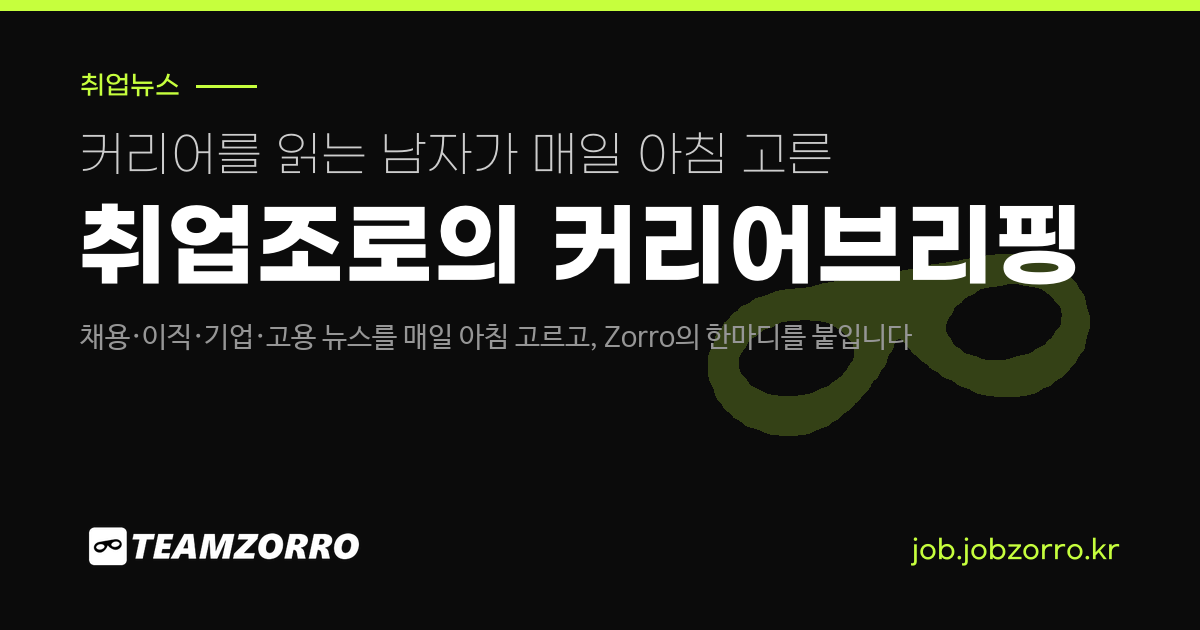
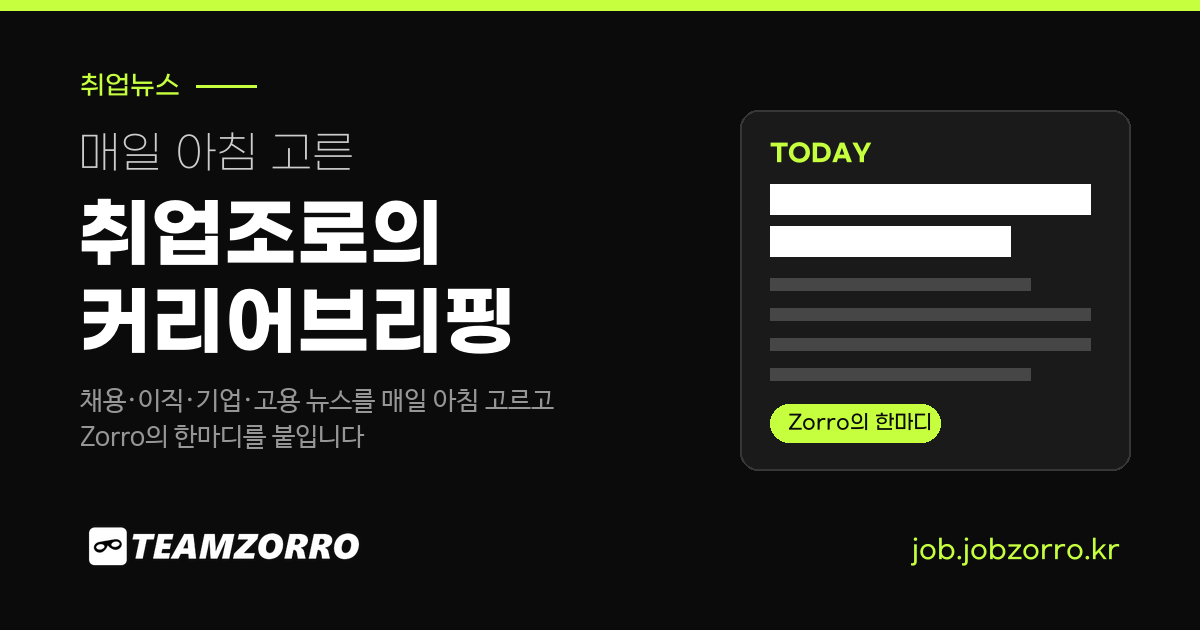
feat: 카톡 공유 미리보기를 섹션마다 다른 그림·설명으로
- 연봉 연구소·회사 판단 공유 이미지 새로, 뉴스·함께하기 이미지는 오른쪽 그림(art) 있는 모양으로
- 연봉 연구소 첫 화면 SEO 머리말, 회사별 연봉 페이지 공유 이미지
- 회사 판단은 사이트 공용 SEO 머리말(직무사전 그림 대신 회사판단 그림)
- 뉴스 og:type·site_name 추가, 설명 바꿈

Changed region(s): [[0.0617, 0.2111, 0.925, 0.754], [0.0617, 0.6032, 0.4625, 0.7238], [0.6475, 0.1508, 0.925, 0.181]]

diff --git a/build.py b/build.py
@@ -91,6 +91,16 @@ def data_uri(path: Path, mime="image/png") -> str:
 LOGO_FILES = ("jobzorro_logo.png", "teamzorro_logo.png", "teamzorro_logo_halo.png")   # assets/ → site/assets/ 로 복사해 모든 페이지가 파일 경로로 참조한다
 
 
+def _salary_count() -> str:
+    """연봉 연구소 회사 수를 '5만 2천여' 처럼 (공유 이미지·설명용)"""
+    try:
+        n = json.loads((BASE / "salary" / "data" / "meta.json").read_text(encoding="utf-8"))["count"]
+    except Exception:
+        return "5만여"
+    man, cheon = n // 10000, (n % 10000) // 1000
+    return f"{man}만 {cheon}천여" if cheon else f"{man}만여"
+
+
 def logo_src(logo: str, root: str) -> str:
     """로고 인자가 data URI·절대 URL 이면 그대로, 'assets/x.png' 같은 상대경로면 페이지 깊이(root)를 앞에 붙인다."""
     if logo.startswith(("data:", "http://", "https://", "/")):
@@ -711,8 +721,12 @@ def build(out_dir: Path, with_news: bool) -> None:
     (out_dir / "assets").mkdir(exist_ok=True)
     if seo.fonts_available():
         seo.og_image(share / "og.png", "그 직무의 진짜 모습", f"현직자 인터뷰·자료 {data['meta'].get('sourceDocs', 0) + sum(j['sources'].get('public', 0) for j in data['jobs']):,}건으로 정리한 직무 {len(data['jobs'])}개 · 취업뉴스 · 무료 상담", "취업조로 직무사전", "채용공고엔 안 나오는")
-        seo.og_image(share / "og-news.png", "취업조로의 커리어브리핑", "채용·이직·기업·고용 뉴스를 매일 아침 고르고, Zorro의 한마디를 붙입니다", "취업뉴스", "커리어를 읽는 남자가 매일 아침 고른")
-        seo.og_image(share / "og-zorro.png", "취업조로와 함께하기", "신입·중고신입·경력이직·선퇴사자 맞춤 컨설팅 · 함께한 합격자 1,100+", "TEAM ZORRO", "누가 봐도 뽑고 싶은 인재의 비밀")
+        # 2026-10-27 사용자: 카톡 미리보기를 섹션마다 다른 그림·이야기로 (오른쪽 그림 art)
+        n_sal = _salary_count()
+        seo.og_image(share / "og-news.png", "취업조로의\n커리어브리핑", "채용·이직·기업·고용 뉴스를 매일 아침 고르고\nZorro의 한마디를 붙입니다", "취업뉴스", "매일 아침 고른", art="news")
+        seo.og_image(share / "og-zorro.png", "취업조로와\n함께하기", "신입·중고신입·경력이직·선퇴사자\n1:1 맞춤 컨설팅 · 무료 상담", "TEAM ZORRO", "뽑고 싶은 인재의 비밀", art="zorro")
+        seo.og_image(share / "og-salary.png", "내 연차면\n얼마 받을까", f"회사 {n_sal} 곳의 사원~부장 추정 연봉\n업계 순위 · 연봉 계산기", "연봉 연구소", "그 회사,", art="salary")
+        seo.og_image(share / "og-company.png", "이직할까 말까\n내 상황으로", "연차·연봉을 넣으면 평점·연봉·재무를 보고\n갈지 말지 Zorro가 정해 드려요", "회사 판단 연구소", "합격한 그 회사, 나라면?", art="company")
         seo.og_image(share / "og-apply.png", "무료 상담 신청", "취업조로 컨설턴트가 내 상황에 맞는 길을 1:1로 정리해 드립니다", "무료 상담", "취업·이직 고민, 혼자 하지 마세요")
     else:
         print("  (한글 글꼴이 없어 공유 이미지는 다시 만들지 않고 assets/share 의 기존 파일을 씁니다)")
@@ -732,6 +746,7 @@ def build(out_dir: Path, with_news: bool) -> None:
         return seo.abs_url(base_url, dst_rel)
     og_main = share_url("og.png")
     og_news, og_zorro, og_apply = share_url("og-news.png"), share_url("og-zorro.png"), share_url("og-apply.png")
+    og_salary, og_company = share_url("og-salary.png"), share_url("og-company.png")
     for name in ("favicon-32.png", "favicon-180.png"):
         src = BASE / "news-collector" / "assets" / name
         if src.exists(): (out_dir / "assets" / name).write_bytes(src.read_bytes())
@@ -896,8 +911,11 @@ def build(out_dir: Path, with_news: bool) -> None:
                    {"@context": "https://schema.org", "@type": "WebPage", "@id": seo.abs_url(base_url, "news/"), "name": "취업조로의 커리어브리핑", "inLanguage": "ko",
                     "description": "취업조로가 매일 아침 고르는 채용·이직·기업·고용 뉴스와 한마디", "isPartOf": {"@id": seo.abs_url(base_url, "#website")}, "author": {"@id": seo.abs_url(base_url, "zorro/#person")}}]
         n = re.sub(r'<meta property="og:image" content="assets/favicon-180.png">', '', n, count=1)
+        # 카톡 미리보기 설명 (2026-10-27 사용자: 섹션마다 각자의 이야기)
+        news_desc = "채용·이직·기업·고용 뉴스 중 내 커리어에 영향을 주는 것만 매일 아침 골라, 취업조로의 한마디와 함께 정리해 드려요. 주간·월간 랭킹도 한눈에."
+        n = re.sub(r'(<meta (?:name="description"|property="og:description") content=")[^"]*(")', lambda m: m.group(1) + news_desc + m.group(2), n)
         n = n.replace("</head>", '<link rel="stylesheet" href="https://fonts.googleapis.com/css2?family=Noto+Sans+KR:wght@700;900&family=Archivo:wght@700;900&display=swap">'
-                      + f'<link rel="canonical" href="{seo.abs_url(base_url, "news/")}"><meta property="og:url" content="{seo.abs_url(base_url, "news/")}"><meta property="og:image" content="{og_news}"><meta property="og:image:width" content="1200"><meta property="og:image:height" content="630"><meta name="twitter:card" content="summary_large_image"><meta name="author" content="조현빈 (취업조로)">' + seo.verify_tags()
+                      + f'<link rel="canonical" href="{seo.abs_url(base_url, "news/")}"><meta property="og:url" content="{seo.abs_url(base_url, "news/")}"><meta property="og:type" content="website"><meta property="og:site_name" content="취업조로"><meta property="og:locale" content="ko_KR"><meta property="og:image" content="{og_news}"><meta name="twitter:image" content="{og_news}"><meta property="og:image:width" content="1200"><meta property="og:image:height" content="630"><meta name="twitter:card" content="summary_large_image"><meta name="author" content="조현빈 (취업조로)">' + seo.verify_tags()
                       + "".join(seo.jsonld(o) for o in news_ld) + "</head>", 1)
         (out_dir / "news").mkdir(exist_ok=True)
         (out_dir / "news" / "index.html").write_text(n, encoding="utf-8")
@@ -976,9 +994,21 @@ def build(out_dir: Path, with_news: bool) -> None:
             h = h.replace("<body>", "<body>\n" + nav_html("salary/index.html", root, logo_nav), 1) if "<body>" in h else nav_html("salary/index.html", root, logo_nav) + h
             path.write_text(h, encoding="utf-8")
         add_nav(dst / "index.html", "../")
+        # 공유(카톡) 미리보기: 첫 화면은 제목·설명·이미지를 새로, 회사 페이지는 이미지만 붙인다
+        si = dst / "index.html"; h = si.read_text(encoding="utf-8")
+        h = re.sub(r'<meta (name="description"|property="og:[^"]+"|name="twitter:[^"]+")[^>]*>\s*', "", h)
+        h = h.replace("<title>연봉 연구소</title>", seo.seo_head(base_url, "연봉 연구소 — 그 회사, 내 연차면 얼마 받을까 | 취업조로",
+            f"회사 {_salary_count()} 곳의 사원·대리·과장·차장·부장 추정 연봉을 국민연금·사업보고서로 정리했어요. 업계 순위, 이직 연봉 계산기, 실제 이직자 연봉까지 한 번에 보고 협상 기준을 잡으세요.",
+            "salary/", og_salary), 1)
+        si.write_text(h, encoding="utf-8")
+        og_tags = (f'<meta property="og:type" content="website"><meta property="og:site_name" content="취업조로"><meta property="og:image" content="{og_salary}">'
+                   f'<meta property="og:image:width" content="1200"><meta property="og:image:height" content="630"><meta name="twitter:card" content="summary_large_image"><meta name="twitter:image" content="{og_salary}">')
         cos = sorted((dst / "co").iterdir())
         for d in cos:
             add_nav(d / "index.html", "../../../")
+            p = d / "index.html"; h = p.read_text(encoding="utf-8")
+            if 'property="og:image"' not in h:
+                p.write_text(h.replace("</head>", og_tags + "</head>", 1), encoding="utf-8")
         entries.append(("salary/", updated, "monthly", "0.8"))
         entries += [(f"salary/co/{urllib.parse.quote(d.name)}/", updated, "monthly", "0.5") for d in cos]
         print(f"연봉 연구소: /salary/ + 회사 페이지 {len(cos):,}개")
@@ -993,6 +1023,10 @@ def build(out_dir: Path, with_news: bool) -> None:
         # 이 페이지는 자체 토큰(--paper·--hairline·--logo-filter)을 이미 갖고 있어 공용 .zn(메뉴)·.zf(푸터) 규칙만 더한다
         zn_css = "\n".join(l for l in SHARED_CSS.splitlines() if l.startswith((".zn", ".zf", "@media (max-width:480px) { .zn", "@media (max-width:640px) { .zn")))
         h = (dst / "index.html").read_text(encoding="utf-8")
+        h = re.sub(r'<title>[^<]*</title>|<meta (name="description"|property="og:[^"]+"|name="twitter:[^"]+")[^>]*>|<link rel="canonical"[^>]*>', "", h)
+        h = h.replace('<meta charset="utf-8">', '<meta charset="utf-8">' + seo.seo_head(base_url, "회사 판단 연구소 — 이직할까 말까, 내 상황으로 판단 | 취업조로",
+            "합격한 그 회사, 나라면 가야 할까? 내 연차·연봉·근무지를 넣으면 잡플래닛·블라인드·캐치 평점, 직급별 연봉, 5개년 재무를 보고 이직할지 말지 Zorro가 내 기준으로 판정해 드려요.",
+            "company/", og_company), 1)
         if 'class="zn"' not in h:
             h = h.replace("</style>", zn_css + "\n</style>", 1)
             h = h.replace("<body>", "<body>\n" + nav_html("company/index.html", "../", logo_nav), 1)

diff --git a/seo.py b/seo.py
@@ -343,8 +343,75 @@ def fonts_available() -> bool:
     return all(_font(n, 10) for n in ("GmarketSansBold.otf", "GmarketSansMedium.otf", "GmarketSansLight.otf", "NanumBarunGothic.ttf"))
 
 
-def og_image(out: Path, title: str, subtitle: str = "", kicker: str = "취업조로 직무사전", light: str = "채용공고엔 안 나오는", accent=None, bg=None) -> bool:
+def _wrap(d, text, font, maxw, n=2):
+    """띄어쓰기 기준으로 maxw 안에 들어가게 n줄까지 나눈다 (넘치면 마지막 줄 말줄임). 줄바꿈 문자는 그 자리에서 줄을 바꾼다."""
+    lines = []
+    for para in text.split(chr(10)):
+        cur = ""
+        for w in para.split(" "):
+            t = (cur + " " + w).strip()
+            if d.textlength(t, font=font) <= maxw or not cur:
+                cur = t
+            else:
+                lines.append(cur); cur = w
+        lines.append(cur)
+    if len(lines) > n:
+        lines = lines[:n]
+        while d.textlength(lines[-1] + "…", font=font) > maxw and len(lines[-1]) > 1:
+            lines[-1] = lines[-1][:-1]
+        lines[-1] += "…"
+    return lines
+
+
+def _art(im, d, kind, ACC, INK):
+    """공유 이미지 오른쪽 그림 (페이지마다 다르게, 2026-10-27 사용자: 카톡 미리보기를 각자 다르게)."""
+    from PIL import Image, ImageDraw
+    PAPER, GRAY, DIM = (255, 255, 255), (70, 70, 70), (38, 38, 38)
+    x0, x1, y0, y1 = 730, 1130, 110, 470
+    if kind == "salary":      # 직급별 연봉 막대: 사원 → 부장, 마지막만 형광
+        labels, hs = ["사원", "대리", "과장", "차장", "부장"], [0.34, 0.5, 0.66, 0.82, 1.0]
+        bw, gap, base = 58, 22, y1 - 34
+        f = _font("GmarketSansMedium.otf", 22)
+        for i, (lb, h) in enumerate(zip(labels, hs)):
+            bx = x0 + 20 + i * (bw + gap); top = base - int(h * (base - y0 - 40))
+            d.rounded_rectangle([bx, top, bx + bw, base], radius=8, fill=ACC if i == 4 else GRAY)
+            d.text((bx + bw / 2 - d.textlength(lb, font=f) / 2, base + 10), lb, font=f, fill=(160, 160, 160))
+        fb = _font("GmarketSansBold.otf", 30)
+        d.text((x0 + 20 + 4 * (bw + gap) + bw / 2 - d.textlength("₩", font=fb) / 2, y0 + 2), "₩", font=fb, fill=ACC)
+    elif kind == "company":   # 판정 버튼 세 개: 내 상황 기준
+        f_t = _font("GmarketSansMedium.otf", 22); f_p = _font("GmarketSansBold.otf", 40)
+        d.text((x0 + 10, y0 + 6), "내 상황 기준 판정", font=f_t, fill=(160, 160, 160))
+        pills = [("가세요", ACC, INK, None), ("조건 보고 가세요", None, PAPER, GRAY), ("다시 생각해요", None, (150, 150, 150), DIM)]
+        y = y0 + 52
+        for txt, fill, fg, line in pills:
+            w = d.textlength(txt, font=f_p) + 70
+            d.rounded_rectangle([x0 + 10, y, x0 + 10 + w, y + 84], radius=42, fill=fill, outline=line, width=3 if line else 0)
+            d.text((x0 + 45, y + 20), txt, font=f_p, fill=fg)
+            y += 104
+        # 체크 표시
+        d.line([(x0 + 10 + d.textlength("가세요", font=f_p) + 90, y0 + 94), (x0 + 10 + d.textlength("가세요", font=f_p) + 108, y0 + 112), (x0 + 10 + d.textlength("가세요", font=f_p) + 140, y0 + 72)], fill=ACC, width=8, joint="curve")
+    elif kind == "news":      # 신문 한 장: 제목 줄 + 본문 줄 + TODAY
+        d.rounded_rectangle([x0 + 10, y0, x1, y1], radius=18, fill=(26, 26, 26), outline=(55, 55, 55), width=2)
+        f_t = _font("GmarketSansBold.otf", 24)
+        d.text((x0 + 40, y0 + 30), "TODAY", font=f_t, fill=ACC)
+        d.rectangle([x0 + 40, y0 + 74, x1 - 40, y0 + 104], fill=PAPER)
+        d.rectangle([x0 + 40, y0 + 116, x1 - 120, y0 + 146], fill=PAPER)
+        for i in range(4):
+            yy = y0 + 168 + i * 30
+            d.rectangle([x0 + 40, yy, (x1 - 40) if i % 3 else (x1 - 100), yy + 12], fill=GRAY)
+        d.rounded_rectangle([x0 + 40, y1 - 66, x0 + 210, y1 - 28], radius=19, fill=ACC)
+        d.text((x0 + 58, y1 - 58), "Zorro의 한마디", font=_font("GmarketSansMedium.otf", 20), fill=INK)
+    elif kind == "zorro":     # 합격자 숫자
+        f_n = _font("GmarketSansBold.otf", 112); f_l = _font("GmarketSansMedium.otf", 30)
+        d.text((x0 + 10, y0 + 40), "함께한 합격자", font=f_l, fill=(160, 160, 160))
+        d.text((x0 + 4, y0 + 90), "1,100+", font=f_n, fill=ACC)
+        d.text((x0 + 10, y0 + 250), "컨설팅 15년 차", font=f_l, fill=PAPER)
+        d.rectangle([x0 + 10, y0 + 300, x0 + 90, y0 + 306], fill=ACC)
+
+
+def og_image(out: Path, title: str, subtitle: str = "", kicker: str = "취업조로 직무사전", light: str = "채용공고엔 안 나오는", accent=None, bg=None, art: str = "") -> bool:
     """1200x630 공유 이미지. 먹색 바탕, 황동 라벨, 얇은 머리글 + 굵은 헤드라인, 오른쪽에 조로 마스크 워터마크.
+    art 를 주면 마스크 대신 오른쪽에 그 페이지 그림(_art)을 그리고 글은 왼쪽 절반에 두 줄까지 접는다.
     글꼴(Gmarket Sans·나눔바른고딕)이 없는 환경(GitHub Actions)에서는 만들지 않고 False 를 돌려준다."""
     from PIL import Image, ImageDraw
     if not fonts_available():
@@ -363,7 +430,10 @@ def og_image(out: Path, title: str, subtitle: str = "", kicker: str = "취업조
     from PIL import ImageChops
     ghost_a = ImageChops.multiply(lum, al).point(lambda v: int(v * 0.22))
     ghost = Image.merge("RGBA", tuple(Image.new("L", mark.size, c) for c in BRASS) + (ghost_a,))
-    im.paste(ghost, (W - 560, H - 540), ghost)
+    if not art:
+        im.paste(ghost, (W - 560, H - 540), ghost)
+    else:
+        _art(im, d, art, BRASS, INK)
     # 위 황동 바
     d.rectangle([0, 0, W, 10], fill=BRASS)
     # 라벨
@@ -373,19 +443,38 @@ def og_image(out: Path, title: str, subtitle: str = "", kicker: str = "취업조
     d.rectangle([80 + kw + 16, 85, 80 + kw + 76, 87], fill=BRASS)
     # 얇은 머리글
     y = 130
+    maxw = 600 if art else 1040
     if light:
-        f_l = _font("GmarketSansLight.otf", 48)
-        d.text((78, y), light, font=f_l, fill=SOFT)
-        y += 70
+        f_l = _font("GmarketSansLight.otf", 44 if art else 48)
+        for ln in (_wrap(d, light, f_l, maxw, 1) if art else [light]):
+            d.text((78, y), ln, font=f_l, fill=SOFT)
+        y += 66 if art else 70
     # 굵은 헤드라인 (너비에 맞춰 축소, 2줄까지)
     size = 92
-    while size > 40:
+    if art:   # 왼쪽 절반: 두 줄까지 접고, 긴 줄이 maxw 에 들어가는 크기로
+        size = 76
+        while size > 40:
+            f_b = _font("GmarketSansBold.otf", size)
+            lines = _wrap(d, title, f_b, maxw, 2)
+            if all(d.textlength(l, font=f_b) <= maxw for l in lines) and not lines[-1].endswith("…"):
+                break
+            size -= 4
+        for ln in lines:
+            d.text((78, y), ln, font=f_b, fill=PAPER)
+            y += size + 12
+        if subtitle:
+            f_s = _font("NanumBarunGothic.ttf", 26)
+            for i, ln in enumerate(_wrap(d, subtitle, f_s, maxw, 2)):
+                d.text((80, y + 14 + i * 36), ln, font=f_s, fill=MUTED)
+        subtitle = ""
+        title = ""
+    while size > 40 and title:
         f_b = _font("GmarketSansBold.otf", size)
         if d.textlength(title, font=f_b) <= 1040:
             break
         size -= 4
-    lines = [title]
-    if d.textlength(title, font=f_b) > 1040:   # 그래도 넘치면 2줄로
+    lines = [title] if title else []
+    if title and d.textlength(title, font=f_b) > 1040:   # 그래도 넘치면 2줄로
         cut = max(title.rfind(" ", 0, len(title) // 2 + 4), len(title) // 2)
         lines = [title[:cut].strip(), title[cut:].strip()]
     for ln in lines:
